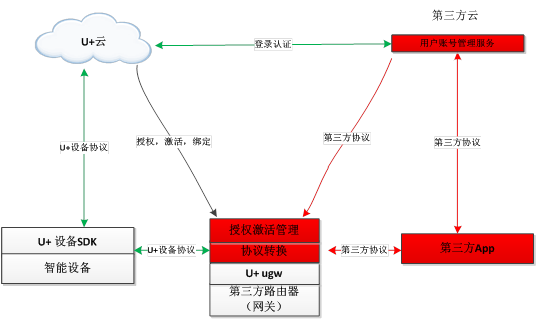
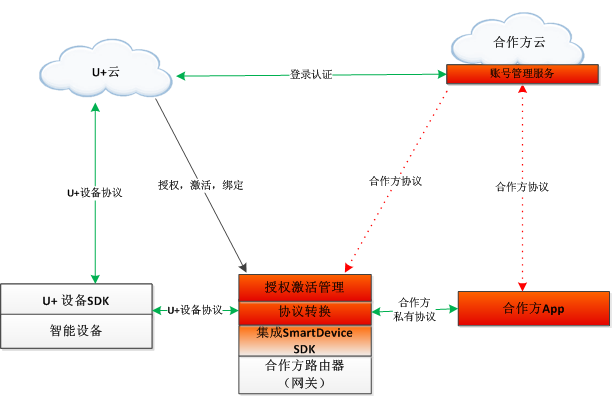
更新

diff --git a/zh-cn/Solutions/sl6.md b/zh-cn/Solutions/sl6.md
@@ -1,46 +1,61 @@
 
->**当前版本：** [硬件网关对接 V1.0](zh-cn/ChangeLog/sl6)   
-**更新时间：** {docsify-updated} 
+!> **更新时间**：{docsify-updated}  
 
 
 
-## 硬网关对接方案
+### 方案介绍
 
-![整体方案图片][sl1_ztfa]  
+![整体方案图片][sl6_ztfa]  
 
-> 第三方路由器作为中控系统，第三方路由器通过集成ugw，相当于APP接入U+ IOT平台。实现U+ IOT云平台对路由器认证、秘钥交换、设备激活的控制，同时可以获取设备状态上报、设备告警上报等运营数据的收集。  
-设备绑定使用第三方路由主动调用绑定，控制通过第三方云下发到第三方路由代理控制。   
-此方案既满足了第三方的用户安全考虑，也实现了快速的互联简化APP的开发。   
-
-
-
-
-**软件构成：**  
-
-?> 1、主要交互由第三方APP发起，经路由中转协议转换，由ugw实际控制设备；   
- 2、	第三方路由器需要集成ugw，从而实现认证、绑定、配网、操控、协议转换等操作；      
- 3、	U+ IOT提供企业账号，第三方路由使用对应账号访问U+ IOT平台。    
+> 合作方路由器网关作为中控系统，集成海尔U+ 的设备端SDK（SmartDevice SDK）的设备控制功能，相当于APP接入海尔U+ IOT平台，实现设备入网功能、设备搜索功能、设备控制功能、接收状态变化上报功能、接收报警信息上报功能等。
   
 
+> 实现效果：用户通过合作伙伴设备（比如：路由器）的APP，控制管理海尔设备。
 
 
 
+### 方案设计
+
+
+![方案设计][sl6_rjgc] 
+
+
+如软件构成图，说明如下：
+1、	所有的交互操作由合作方APP发起，经路由器中的双方协议转换，由SmartDevice SDK实际控制设备；
+2、	红色部分是需要合作方实现的，包括合作方App、协议转换、账号管理服务、授权激活管理、以及集成SmartDevice SDK。
 
 
 
+### 功能流程
+
+**路由登录认证**
+
+![路由登录认证][sl6_rz] 
+
+说明：
+（1）clientKey、clientSecret由合作方分配，用于合作方云验证请求的合法来源；
+（2）AppId,AppKey 由U+云分配，用于U+云验证请求的合法来源；
+（3）U+云到合作云认证主要目的是保证路由器是合作伙伴授权的（由合作方路由器到合作伙伴云认证），并且获取合作伙伴路由器代表的用户ID（openId），openId将用于后面绑定设备的用户标识，用于U+云标识一个用户。
+
+登录认证作用：
+（1） 设备添加时，确认用户的有效身份；
+（2） SmartDevice SDK 与U+ 云 交互时的身份校验；
+
+登录 认证 主要流程如下：
+（1） 路由器启动认证流程；
+（2） 合作方路由器到云认证（clientKey、gw_id、gw_code）,gw_id为路由器的唯一标识 ,gw_code为路由器的gw_id对应的key；
+（3） 合作方云返回（appId、appKey、code）,code为 10分钟有效期的一次性授权码。
+（4） 合作方路由器调用U+云的认证（appId、appKey、code） ,U+云调用合作方的认证接口（clientKey、clientSecret、code），合作方云对code进行认证，返回openId。
+（5） U+云生成access_token，作为后续访问U+云 服务的认证token。
+（6） U+云向 合作方路由器返回 access_token。
 
 
 <!-- 
 ## 功能流程 &emsp;
 -->
 
-
-
-
-
-
-
 [^-^]:常用图片注释
-[sl1_ztfa]:_media/_Solutions/sl6ztfa.png  
+[sl6_ztfa]:_media/_Solutions/sl6ztfa.png  
 
-[sl1_rjgc]:_media/_Solutions/sl6rjgc.png
+[sl6_rjgc]:_media/_Solutions/sl6rjgc.png
+[sl6_rz]:_media/_Solutions/sl6rz.png
